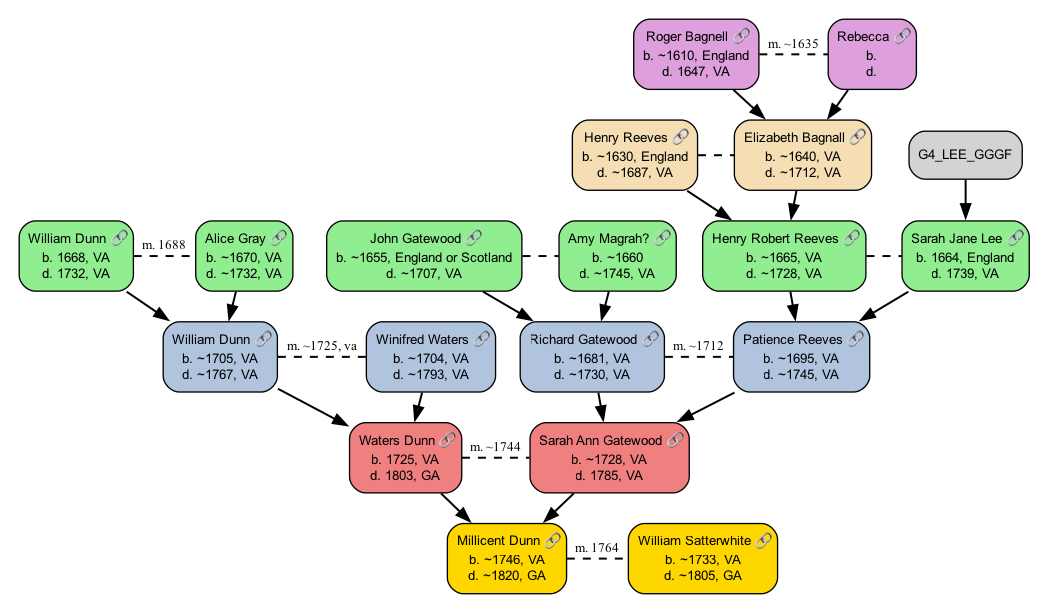
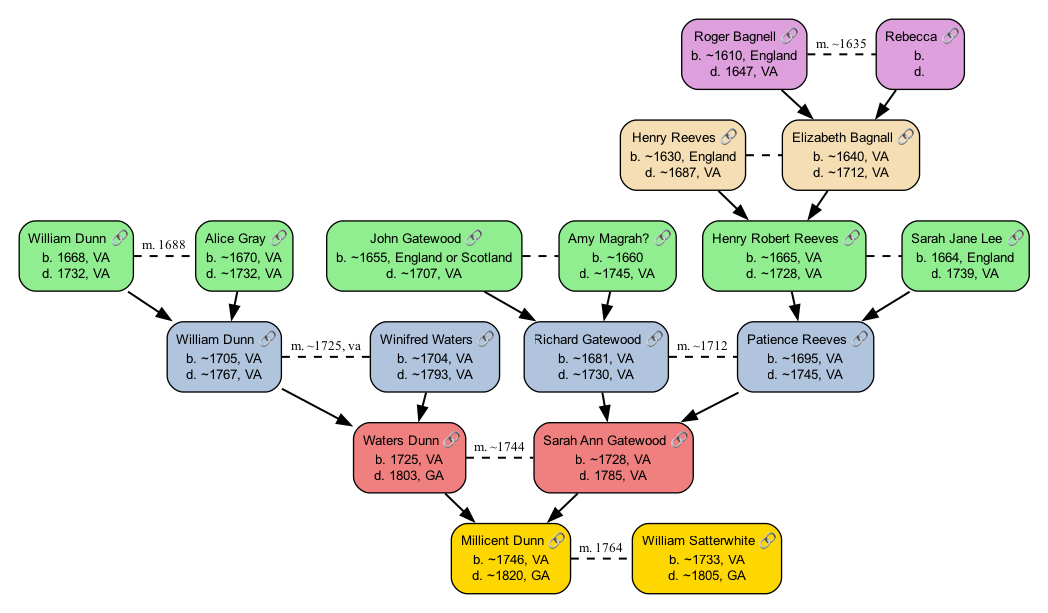
Update Dunn branch data and regenerate outputs
Remove G4_LEE_GGGF parent reference from Sarah Jane Lee record in Dunn branch.

🤖 Generated with [Claude Code](https://claude.com/claude-code)

diff --git a/output/Scott_line_Satterwhite_branch_Dunn_branch.html b/output/Scott_line_Satterwhite_branch_Dunn_branch.html
@@ -72,10 +72,10 @@
 <g id="node1" class="node">
 <title>G0_ME</title>
 <g id="a_node1"><a xlink:href="https://www.wikitree.com/wiki/Dunn-1110" xlink:title="Millicent Dunn 🔗\nb. ~1746, VA\nd. ~1820, GA" target="_blank">
-<path fill="gold" stroke="black" d="M398.52,-52.65C398.52,-52.65 333.12,-52.65 333.12,-52.65 327.12,-52.65 321.12,-46.65 321.12,-40.65 321.12,-40.65 321.12,-12 321.12,-12 321.12,-6 327.12,0 333.12,0 333.12,0 398.52,0 398.52,0 404.52,0 410.52,-6 410.52,-12 410.52,-12 410.52,-40.65 410.52,-40.65 410.52,-46.65 404.52,-52.65 398.52,-52.65"/>
-<text xml:space="preserve" text-anchor="middle" x="365.82" y="-35.95" font-family="Arial" font-size="10.00">Millicent Dunn 🔗</text>
-<text xml:space="preserve" text-anchor="middle" x="365.82" y="-21.7" font-family="Arial" font-size="10.00">b. ~1746, VA</text>
-<text xml:space="preserve" text-anchor="middle" x="365.82" y="-9.7" font-family="Arial" font-size="10.00">d. ~1820, GA</text>
+<path fill="gold" stroke="black" d="M401.52,-52.65C401.52,-52.65 336.12,-52.65 336.12,-52.65 330.12,-52.65 324.12,-46.65 324.12,-40.65 324.12,-40.65 324.12,-12 324.12,-12 324.12,-6 330.12,0 336.12,0 336.12,0 401.52,0 401.52,0 407.52,0 413.52,-6 413.52,-12 413.52,-12 413.52,-40.65 413.52,-40.65 413.52,-46.65 407.52,-52.65 401.52,-52.65"/>
+<text xml:space="preserve" text-anchor="middle" x="368.82" y="-35.95" font-family="Arial" font-size="10.00">Millicent Dunn 🔗</text>
+<text xml:space="preserve" text-anchor="middle" x="368.82" y="-21.7" font-family="Arial" font-size="10.00">b. ~1746, VA</text>
+<text xml:space="preserve" text-anchor="middle" x="368.82" y="-9.7" font-family="Arial" font-size="10.00">d. ~1820, GA</text>
 </a>
 </g>
 </g>
@@ -83,138 +83,138 @@
 <g id="node2" class="node">
 <title>G0_SPOUSE</title>
 <g id="a_node2"><a xlink:href="https://www.wikitree.com/wiki/Satterwhite-248" xlink:title="William Satterwhite 🔗\nb. ~1733, VA\nd. ~1805, GA" target="_blank">
-<path fill="gold" stroke="black" d="M556.78,-52.65C556.78,-52.65 468.88,-52.65 468.88,-52.65 462.88,-52.65 456.88,-46.65 456.88,-40.65 456.88,-40.65 456.88,-12 456.88,-12 456.88,-6 462.88,0 468.88,0 468.88,0 556.78,0 556.78,0 562.78,0 568.78,-6 568.78,-12 568.78,-12 568.78,-40.65 568.78,-40.65 568.78,-46.65 562.78,-52.65 556.78,-52.65"/>
-<text xml:space="preserve" text-anchor="middle" x="512.83" y="-35.95" font-family="Arial" font-size="10.00">William Satterwhite 🔗</text>
-<text xml:space="preserve" text-anchor="middle" x="512.83" y="-21.7" font-family="Arial" font-size="10.00">b. ~1733, VA</text>
-<text xml:space="preserve" text-anchor="middle" x="512.83" y="-9.7" font-family="Arial" font-size="10.00">d. ~1805, GA</text>
+<path fill="gold" stroke="black" d="M559.78,-52.65C559.78,-52.65 471.88,-52.65 471.88,-52.65 465.88,-52.65 459.88,-46.65 459.88,-40.65 459.88,-40.65 459.88,-12 459.88,-12 459.88,-6 465.88,0 471.88,0 471.88,0 559.78,0 559.78,0 565.78,0 571.78,-6 571.78,-12 571.78,-12 571.78,-40.65 571.78,-40.65 571.78,-46.65 565.78,-52.65 559.78,-52.65"/>
+<text xml:space="preserve" text-anchor="middle" x="515.83" y="-35.95" font-family="Arial" font-size="10.00">William Satterwhite 🔗</text>
+<text xml:space="preserve" text-anchor="middle" x="515.83" y="-21.7" font-family="Arial" font-size="10.00">b. ~1733, VA</text>
+<text xml:space="preserve" text-anchor="middle" x="515.83" y="-9.7" font-family="Arial" font-size="10.00">d. ~1805, GA</text>
 </a>
 </g>
 </g>
 <!-- G0_ME&#45;&gt;G0_SPOUSE -->
 <g id="edge1" class="edge">
 <title>G0_ME&#45;&gt;G0_SPOUSE</title>
-<path fill="none" stroke="black" stroke-width="1.5" stroke-dasharray="5,2" d="M410.73,-26.32C425.17,-26.32 441.35,-26.32 456.5,-26.32"/>
-<text xml:space="preserve" text-anchor="middle" x="433.7" y="-31.08" font-family="Times,serif" font-size="10.00">m. 1764</text>
+<path fill="none" stroke="black" stroke-width="1.5" stroke-dasharray="5,2" d="M413.73,-26.32C428.17,-26.32 444.35,-26.32 459.5,-26.32"/>
+<text xml:space="preserve" text-anchor="middle" x="436.7" y="-31.08" font-family="Times,serif" font-size="10.00">m. 1764</text>
 </g>
 <!-- G1_FATHER -->
 <g id="node3" class="node">
 <title>G1_FATHER</title>
 <g id="a_node3"><a xlink:href="https://www.wikitree.com/wiki/Dunn-4072" xlink:title="Waters Dunn 🔗\nb. 1725, VA\nd. 1803, GA" target="_blank">
-<path fill="lightcoral" stroke="black" d="M319.9,-128.3C319.9,-128.3 259.75,-128.3 259.75,-128.3 253.75,-128.3 247.75,-122.3 247.75,-116.3 247.75,-116.3 247.75,-87.65 247.75,-87.65 247.75,-81.65 253.75,-75.65 259.75,-75.65 259.75,-75.65 319.9,-75.65 319.9,-75.65 325.9,-75.65 331.9,-81.65 331.9,-87.65 331.9,-87.65 331.9,-116.3 331.9,-116.3 331.9,-122.3 325.9,-128.3 319.9,-128.3"/>
-<text xml:space="preserve" text-anchor="middle" x="289.82" y="-111.6" font-family="Arial" font-size="10.00">Waters Dunn 🔗</text>
-<text xml:space="preserve" text-anchor="middle" x="289.82" y="-97.35" font-family="Arial" font-size="10.00">b. 1725, VA</text>
-<text xml:space="preserve" text-anchor="middle" x="289.82" y="-85.35" font-family="Arial" font-size="10.00">d. 1803, GA</text>
+<path fill="lightcoral" stroke="black" d="M322.9,-128.3C322.9,-128.3 262.75,-128.3 262.75,-128.3 256.75,-128.3 250.75,-122.3 250.75,-116.3 250.75,-116.3 250.75,-87.65 250.75,-87.65 250.75,-81.65 256.75,-75.65 262.75,-75.65 262.75,-75.65 322.9,-75.65 322.9,-75.65 328.9,-75.65 334.9,-81.65 334.9,-87.65 334.9,-87.65 334.9,-116.3 334.9,-116.3 334.9,-122.3 328.9,-128.3 322.9,-128.3"/>
+<text xml:space="preserve" text-anchor="middle" x="292.82" y="-111.6" font-family="Arial" font-size="10.00">Waters Dunn 🔗</text>
+<text xml:space="preserve" text-anchor="middle" x="292.82" y="-97.35" font-family="Arial" font-size="10.00">b. 1725, VA</text>
+<text xml:space="preserve" text-anchor="middle" x="292.82" y="-85.35" font-family="Arial" font-size="10.00">d. 1803, GA</text>
 </a>
 </g>
 </g>
 <!-- G1_FATHER&#45;&gt;G0_ME -->
 <g id="edge10" class="edge">
 <title>G1_FATHER&#45;&gt;G0_ME</title>
-<path fill="none" stroke="black" stroke-width="1.5" d="M316.41,-75.22C321.06,-70.7 325.97,-65.95 330.81,-61.26"/>
-<polygon fill="black" stroke="black" stroke-width="1.5" points="333.01,-64 337.76,-54.53 328.14,-58.97 333.01,-64"/>
+<path fill="none" stroke="black" stroke-width="1.5" d="M319.41,-75.22C324.06,-70.7 328.97,-65.95 333.81,-61.26"/>
+<polygon fill="black" stroke="black" stroke-width="1.5" points="336.01,-64 340.76,-54.53 331.14,-58.97 336.01,-64"/>
 </g>
 <!-- G1_MOTHER -->
 <g id="node4" class="node">
 <title>G1_MOTHER</title>
 <g id="a_node4"><a xlink:href="https://www.wikitree.com/wiki/Gatewood-229" xlink:title="Sarah Ann Gatewood 🔗\nb. ~1728, VA\nd. 1785, VA" target="_blank">
-<path fill="lightcoral" stroke="black" d="M490.52,-128.3C490.52,-128.3 395.12,-128.3 395.12,-128.3 389.12,-128.3 383.12,-122.3 383.12,-116.3 383.12,-116.3 383.12,-87.65 383.12,-87.65 383.12,-81.65 389.12,-75.65 395.12,-75.65 395.12,-75.65 490.52,-75.65 490.52,-75.65 496.52,-75.65 502.52,-81.65 502.52,-87.65 502.52,-87.65 502.52,-116.3 502.52,-116.3 502.52,-122.3 496.52,-128.3 490.52,-128.3"/>
-<text xml:space="preserve" text-anchor="middle" x="442.82" y="-111.6" font-family="Arial" font-size="10.00">Sarah Ann Gatewood 🔗</text>
-<text xml:space="preserve" text-anchor="middle" x="442.82" y="-97.35" font-family="Arial" font-size="10.00">b. ~1728, VA</text>
-<text xml:space="preserve" text-anchor="middle" x="442.82" y="-85.35" font-family="Arial" font-size="10.00">d. 1785, VA</text>
+<path fill="lightcoral" stroke="black" d="M493.52,-128.3C493.52,-128.3 398.12,-128.3 398.12,-128.3 392.12,-128.3 386.12,-122.3 386.12,-116.3 386.12,-116.3 386.12,-87.65 386.12,-87.65 386.12,-81.65 392.12,-75.65 398.12,-75.65 398.12,-75.65 493.52,-75.65 493.52,-75.65 499.52,-75.65 505.52,-81.65 505.52,-87.65 505.52,-87.65 505.52,-116.3 505.52,-116.3 505.52,-122.3 499.52,-128.3 493.52,-128.3"/>
+<text xml:space="preserve" text-anchor="middle" x="445.82" y="-111.6" font-family="Arial" font-size="10.00">Sarah Ann Gatewood 🔗</text>
+<text xml:space="preserve" text-anchor="middle" x="445.82" y="-97.35" font-family="Arial" font-size="10.00">b. ~1728, VA</text>
+<text xml:space="preserve" text-anchor="middle" x="445.82" y="-85.35" font-family="Arial" font-size="10.00">d. 1785, VA</text>
 </a>
 </g>
 </g>
 <!-- G1_FATHER&#45;&gt;G1_MOTHER -->
 <g id="edge2" class="edge">
 <title>G1_FATHER&#45;&gt;G1_MOTHER</title>
-<path fill="none" stroke="black" stroke-width="1.5" stroke-dasharray="5,2" d="M332.04,-101.98C347.69,-101.98 365.77,-101.98 382.71,-101.98"/>
-<text xml:space="preserve" text-anchor="middle" x="357.51" y="-106.73" font-family="Times,serif" font-size="10.00">m. ~1744</text>
+<path fill="none" stroke="black" stroke-width="1.5" stroke-dasharray="5,2" d="M335.04,-101.98C350.69,-101.98 368.77,-101.98 385.71,-101.98"/>
+<text xml:space="preserve" text-anchor="middle" x="360.51" y="-106.73" font-family="Times,serif" font-size="10.00">m. ~1744</text>
 </g>
 <!-- G1_MOTHER&#45;&gt;G0_ME -->
 <g id="edge11" class="edge">
 <title>G1_MOTHER&#45;&gt;G0_ME</title>
-<path fill="none" stroke="black" stroke-width="1.5" d="M415.89,-75.22C411.18,-70.7 406.21,-65.95 401.3,-61.26"/>
-<polygon fill="black" stroke="black" stroke-width="1.5" points="403.9,-58.9 394.25,-54.51 399.06,-63.96 403.9,-58.9"/>
+<path fill="none" stroke="black" stroke-width="1.5" d="M418.89,-75.22C414.18,-70.7 409.21,-65.95 404.3,-61.26"/>
+<polygon fill="black" stroke="black" stroke-width="1.5" points="406.9,-58.9 397.25,-54.51 402.06,-63.96 406.9,-58.9"/>
 </g>
 <!-- G2_PATERNAL_GF -->
 <g id="node5" class="node">
 <title>G2_PATERNAL_GF</title>
 <g id="a_node5"><a xlink:href="https://www.wikitree.com/wiki/Dunn-870" xlink:title="William Dunn 🔗\nb. ~1705, VA\nd. ~1767, VA" target="_blank">
-<path fill="lightsteelblue" stroke="black" d="M181.65,-203.95C181.65,-203.95 120,-203.95 120,-203.95 114,-203.95 108,-197.95 108,-191.95 108,-191.95 108,-163.3 108,-163.3 108,-157.3 114,-151.3 120,-151.3 120,-151.3 181.65,-151.3 181.65,-151.3 187.65,-151.3 193.65,-157.3 193.65,-163.3 193.65,-163.3 193.65,-191.95 193.65,-191.95 193.65,-197.95 187.65,-203.95 181.65,-203.95"/>
-<text xml:space="preserve" text-anchor="middle" x="150.82" y="-187.25" font-family="Arial" font-size="10.00">William Dunn 🔗</text>
-<text xml:space="preserve" text-anchor="middle" x="150.82" y="-173" font-family="Arial" font-size="10.00">b. ~1705, VA</text>
-<text xml:space="preserve" text-anchor="middle" x="150.82" y="-161" font-family="Arial" font-size="10.00">d. ~1767, VA</text>
+<path fill="lightsteelblue" stroke="black" d="M184.65,-203.95C184.65,-203.95 123,-203.95 123,-203.95 117,-203.95 111,-197.95 111,-191.95 111,-191.95 111,-163.3 111,-163.3 111,-157.3 117,-151.3 123,-151.3 123,-151.3 184.65,-151.3 184.65,-151.3 190.65,-151.3 196.65,-157.3 196.65,-163.3 196.65,-163.3 196.65,-191.95 196.65,-191.95 196.65,-197.95 190.65,-203.95 184.65,-203.95"/>
+<text xml:space="preserve" text-anchor="middle" x="153.82" y="-187.25" font-family="Arial" font-size="10.00">William Dunn 🔗</text>
+<text xml:space="preserve" text-anchor="middle" x="153.82" y="-173" font-family="Arial" font-size="10.00">b. ~1705, VA</text>
+<text xml:space="preserve" text-anchor="middle" x="153.82" y="-161" font-family="Arial" font-size="10.00">d. ~1767, VA</text>
 </a>
 </g>
 </g>
 <!-- G2_PATERNAL_GF&#45;&gt;G1_FATHER -->
 <g id="edge12" class="edge">
 <title>G2_PATERNAL_GF&#45;&gt;G1_FATHER</title>
-<path fill="none" stroke="black" stroke-width="1.5" d="M194.04,-153.73C207.63,-146.52 222.8,-138.49 236.98,-130.98"/>
-<polygon fill="black" stroke="black" stroke-width="1.5" points="238.38,-134.19 245.58,-126.42 235.11,-128.01 238.38,-134.19"/>
+<path fill="none" stroke="black" stroke-width="1.5" d="M197.04,-153.73C210.63,-146.52 225.8,-138.49 239.98,-130.98"/>
+<polygon fill="black" stroke="black" stroke-width="1.5" points="241.38,-134.19 248.58,-126.42 238.11,-128.01 241.38,-134.19"/>
 </g>
 <!-- G2_PATERNAL_GM -->
 <g id="node6" class="node">
 <title>G2_PATERNAL_GM</title>
 <g id="a_node6"><a xlink:href="https://www.wikitree.com/wiki/Waters-545" xlink:title="Winifred Waters 🔗\nb. ~1704, VA\nd. ~1793, VA" target="_blank">
-<path fill="lightsteelblue" stroke="black" d="M345.27,-203.95C345.27,-203.95 272.38,-203.95 272.38,-203.95 266.38,-203.95 260.38,-197.95 260.38,-191.95 260.38,-191.95 260.38,-163.3 260.38,-163.3 260.38,-157.3 266.38,-151.3 272.38,-151.3 272.38,-151.3 345.27,-151.3 345.27,-151.3 351.27,-151.3 357.27,-157.3 357.27,-163.3 357.27,-163.3 357.27,-191.95 357.27,-191.95 357.27,-197.95 351.27,-203.95 345.27,-203.95"/>
-<text xml:space="preserve" text-anchor="middle" x="308.82" y="-187.25" font-family="Arial" font-size="10.00">Winifred Waters 🔗</text>
-<text xml:space="preserve" text-anchor="middle" x="308.82" y="-173" font-family="Arial" font-size="10.00">b. ~1704, VA</text>
-<text xml:space="preserve" text-anchor="middle" x="308.82" y="-161" font-family="Arial" font-size="10.00">d. ~1793, VA</text>
+<path fill="lightsteelblue" stroke="black" d="M348.27,-203.95C348.27,-203.95 275.38,-203.95 275.38,-203.95 269.38,-203.95 263.38,-197.95 263.38,-191.95 263.38,-191.95 263.38,-163.3 263.38,-163.3 263.38,-157.3 269.38,-151.3 275.38,-151.3 275.38,-151.3 348.27,-151.3 348.27,-151.3 354.27,-151.3 360.27,-157.3 360.27,-163.3 360.27,-163.3 360.27,-191.95 360.27,-191.95 360.27,-197.95 354.27,-203.95 348.27,-203.95"/>
+<text xml:space="preserve" text-anchor="middle" x="311.82" y="-187.25" font-family="Arial" font-size="10.00">Winifred Waters 🔗</text>
+<text xml:space="preserve" text-anchor="middle" x="311.82" y="-173" font-family="Arial" font-size="10.00">b. ~1704, VA</text>
+<text xml:space="preserve" text-anchor="middle" x="311.82" y="-161" font-family="Arial" font-size="10.00">d. ~1793, VA</text>
 </a>
 </g>
 </g>
 <!-- G2_PATERNAL_GF&#45;&gt;G2_PATERNAL_GM -->
 <g id="edge3" class="edge">
 <title>G2_PATERNAL_GF&#45;&gt;G2_PATERNAL_GM</title>
-<path fill="none" stroke="black" stroke-width="1.5" stroke-dasharray="5,2" d="M194,-177.62C214.47,-177.62 239,-177.62 260.13,-177.62"/>
-<text xml:space="preserve" text-anchor="middle" x="227.01" y="-182.38" font-family="Times,serif" font-size="10.00">m. ~1725, va</text>
+<path fill="none" stroke="black" stroke-width="1.5" stroke-dasharray="5,2" d="M197,-177.62C217.47,-177.62 242,-177.62 263.13,-177.62"/>
+<text xml:space="preserve" text-anchor="middle" x="230.01" y="-182.38" font-family="Times,serif" font-size="10.00">m. ~1725, va</text>
 </g>
 <!-- G2_PATERNAL_GM&#45;&gt;G1_FATHER -->
 <g id="edge13" class="edge">
 <title>G2_PATERNAL_GM&#45;&gt;G1_FATHER</title>
-<path fill="none" stroke="black" stroke-width="1.5" d="M302.18,-150.87C301.27,-147.33 300.32,-143.64 299.36,-139.95"/>
-<polygon fill="black" stroke="black" stroke-width="1.5" points="302.82,-139.35 296.94,-130.55 296.05,-141.1 302.82,-139.35"/>
+<path fill="none" stroke="black" stroke-width="1.5" d="M305.18,-150.87C304.27,-147.33 303.32,-143.64 302.36,-139.95"/>
+<polygon fill="black" stroke="black" stroke-width="1.5" points="305.82,-139.35 299.94,-130.55 299.05,-141.1 305.82,-139.35"/>
 </g>
 <!-- G2_MATERNAL_GF -->
 <g id="node7" class="node">
 <title>G2_MATERNAL_GF</title>
 <g id="a_node7"><a xlink:href="https://www.wikitree.com/wiki/Gatewood-75" xlink:title="Richard Gatewood 🔗\nb. ~1681, VA\nd. ~1730, VA" target="_blank">
-<path fill="lightsteelblue" stroke="black" d="M471.9,-203.95C471.9,-203.95 387.75,-203.95 387.75,-203.95 381.75,-203.95 375.75,-197.95 375.75,-191.95 375.75,-191.95 375.75,-163.3 375.75,-163.3 375.75,-157.3 381.75,-151.3 387.75,-151.3 387.75,-151.3 471.9,-151.3 471.9,-151.3 477.9,-151.3 483.9,-157.3 483.9,-163.3 483.9,-163.3 483.9,-191.95 483.9,-191.95 483.9,-197.95 477.9,-203.95 471.9,-203.95"/>
-<text xml:space="preserve" text-anchor="middle" x="429.82" y="-187.25" font-family="Arial" font-size="10.00">Richard Gatewood 🔗</text>
-<text xml:space="preserve" text-anchor="middle" x="429.82" y="-173" font-family="Arial" font-size="10.00">b. ~1681, VA</text>
-<text xml:space="preserve" text-anchor="middle" x="429.82" y="-161" font-family="Arial" font-size="10.00">d. ~1730, VA</text>
+<path fill="lightsteelblue" stroke="black" d="M474.9,-203.95C474.9,-203.95 390.75,-203.95 390.75,-203.95 384.75,-203.95 378.75,-197.95 378.75,-191.95 378.75,-191.95 378.75,-163.3 378.75,-163.3 378.75,-157.3 384.75,-151.3 390.75,-151.3 390.75,-151.3 474.9,-151.3 474.9,-151.3 480.9,-151.3 486.9,-157.3 486.9,-163.3 486.9,-163.3 486.9,-191.95 486.9,-191.95 486.9,-197.95 480.9,-203.95 474.9,-203.95"/>
+<text xml:space="preserve" text-anchor="middle" x="432.82" y="-187.25" font-family="Arial" font-size="10.00">Richard Gatewood 🔗</text>
+<text xml:space="preserve" text-anchor="middle" x="432.82" y="-173" font-family="Arial" font-size="10.00">b. ~1681, VA</text>
+<text xml:space="preserve" text-anchor="middle" x="432.82" y="-161" font-family="Arial" font-size="10.00">d. ~1730, VA</text>
 </a>
 </g>
 </g>
 <!-- G2_MATERNAL_GF&#45;&gt;G1_MOTHER -->
 <g id="edge14" class="edge">
 <title>G2_MATERNAL_GF&#45;&gt;G1_MOTHER</title>
-<path fill="none" stroke="black" stroke-width="1.5" d="M434.37,-150.87C434.98,-147.44 435.6,-143.88 436.23,-140.31"/>
-<polygon fill="black" stroke="black" stroke-width="1.5" points="439.66,-141.04 437.95,-130.58 432.77,-139.82 439.66,-141.04"/>
+<path fill="none" stroke="black" stroke-width="1.5" d="M437.37,-150.87C437.98,-147.44 438.6,-143.88 439.23,-140.31"/>
+<polygon fill="black" stroke="black" stroke-width="1.5" points="442.66,-141.04 440.95,-130.58 435.77,-139.82 442.66,-141.04"/>
 </g>
 <!-- G2_MATERNAL_GM -->
 <g id="node8" class="node">
 <title>G2_MATERNAL_GM</title>
 <g id="a_node8"><a xlink:href="https://www.wikitree.com/wiki/Reeves-784" xlink:title="Patience Reeves 🔗\nb. ~1695, VA\nd. ~1745, VA" target="_blank">
-<path fill="lightsteelblue" stroke="black" d="M625.9,-203.95C625.9,-203.95 547.75,-203.95 547.75,-203.95 541.75,-203.95 535.75,-197.95 535.75,-191.95 535.75,-191.95 535.75,-163.3 535.75,-163.3 535.75,-157.3 541.75,-151.3 547.75,-151.3 547.75,-151.3 625.9,-151.3 625.9,-151.3 631.9,-151.3 637.9,-157.3 637.9,-163.3 637.9,-163.3 637.9,-191.95 637.9,-191.95 637.9,-197.95 631.9,-203.95 625.9,-203.95"/>
-<text xml:space="preserve" text-anchor="middle" x="586.83" y="-187.25" font-family="Arial" font-size="10.00">Patience Reeves 🔗</text>
-<text xml:space="preserve" text-anchor="middle" x="586.83" y="-173" font-family="Arial" font-size="10.00">b. ~1695, VA</text>
-<text xml:space="preserve" text-anchor="middle" x="586.83" y="-161" font-family="Arial" font-size="10.00">d. ~1745, VA</text>
+<path fill="lightsteelblue" stroke="black" d="M628.9,-203.95C628.9,-203.95 550.75,-203.95 550.75,-203.95 544.75,-203.95 538.75,-197.95 538.75,-191.95 538.75,-191.95 538.75,-163.3 538.75,-163.3 538.75,-157.3 544.75,-151.3 550.75,-151.3 550.75,-151.3 628.9,-151.3 628.9,-151.3 634.9,-151.3 640.9,-157.3 640.9,-163.3 640.9,-163.3 640.9,-191.95 640.9,-191.95 640.9,-197.95 634.9,-203.95 628.9,-203.95"/>
+<text xml:space="preserve" text-anchor="middle" x="589.83" y="-187.25" font-family="Arial" font-size="10.00">Patience Reeves 🔗</text>
+<text xml:space="preserve" text-anchor="middle" x="589.83" y="-173" font-family="Arial" font-size="10.00">b. ~1695, VA</text>
+<text xml:space="preserve" text-anchor="middle" x="589.83" y="-161" font-family="Arial" font-size="10.00">d. ~1745, VA</text>
 </a>
 </g>
 </g>
 <!-- G2_MATERNAL_GF&#45;&gt;G2_MATERNAL_GM -->
 <g id="edge4" class="edge">
 <title>G2_MATERNAL_GF&#45;&gt;G2_MATERNAL_GM</title>
-<path fill="none" stroke="black" stroke-width="1.5" stroke-dasharray="5,2" d="M484.3,-177.62C500.86,-177.62 519,-177.62 535.36,-177.62"/>
-<text xml:space="preserve" text-anchor="middle" x="509.82" y="-182.38" font-family="Times,serif" font-size="10.00">m. ~1712</text>
+<path fill="none" stroke="black" stroke-width="1.5" stroke-dasharray="5,2" d="M487.3,-177.62C503.86,-177.62 522,-177.62 538.36,-177.62"/>
+<text xml:space="preserve" text-anchor="middle" x="512.83" y="-182.38" font-family="Times,serif" font-size="10.00">m. ~1712</text>
 </g>
 <!-- G2_MATERNAL_GM&#45;&gt;G1_MOTHER -->
 <g id="edge15" class="edge">
 <title>G2_MATERNAL_GM&#45;&gt;G1_MOTHER</title>
-<path fill="none" stroke="black" stroke-width="1.5" d="M536.46,-150.87C525.88,-145.45 514.6,-139.69 503.68,-134.1"/>
-<polygon fill="black" stroke="black" stroke-width="1.5" points="505.44,-131.07 494.94,-129.63 502.25,-137.3 505.44,-131.07"/>
+<path fill="none" stroke="black" stroke-width="1.5" d="M539.46,-150.87C528.88,-145.45 517.6,-139.69 506.68,-134.1"/>
+<polygon fill="black" stroke="black" stroke-width="1.5" points="508.44,-131.07 497.94,-129.63 505.25,-137.3 508.44,-131.07"/>
 </g>
 <!-- G3_DUNN_GGF -->
 <g id="node9" class="node">
@@ -230,8 +230,8 @@
 <!-- G3_DUNN_GGF&#45;&gt;G2_PATERNAL_GF -->
 <g id="edge16" class="edge">
 <title>G3_DUNN_GGF&#45;&gt;G2_PATERNAL_GF</title>
-<path fill="none" stroke="black" stroke-width="1.5" d="M80.6,-226.52C87.87,-221.55 95.58,-216.3 103.13,-211.15"/>
-<polygon fill="black" stroke="black" stroke-width="1.5" points="105.09,-214.05 111.38,-205.52 101.15,-208.27 105.09,-214.05"/>
+<path fill="none" stroke="black" stroke-width="1.5" d="M81.65,-226.52C89.21,-221.5 97.23,-216.18 105.07,-210.98"/>
+<polygon fill="black" stroke="black" stroke-width="1.5" points="106.92,-213.95 113.32,-205.5 103.05,-208.11 106.92,-213.95"/>
 </g>
 <!-- G3_GRAY_GGM -->
 <g id="node10" class="node">
@@ -253,8 +253,8 @@
 <!-- G3_GRAY_GGM&#45;&gt;G2_PATERNAL_GF -->
 <g id="edge17" class="edge">
 <title>G3_GRAY_GGM&#45;&gt;G2_PATERNAL_GF</title>
-<path fill="none" stroke="black" stroke-width="1.5" d="M162.53,-226.52C161.67,-222.98 160.76,-219.29 159.86,-215.6"/>
-<polygon fill="black" stroke="black" stroke-width="1.5" points="163.34,-215.09 157.56,-206.2 156.54,-216.75 163.34,-215.09"/>
+<path fill="none" stroke="black" stroke-width="1.5" d="M163.58,-226.52C162.88,-223.09 162.16,-219.53 161.43,-215.96"/>
+<polygon fill="black" stroke="black" stroke-width="1.5" points="164.87,-215.32 159.45,-206.22 158.01,-216.72 164.87,-215.32"/>
 </g>
 <!-- G3_GATEWOOD_GGF -->
 <g id="node11" class="node">
@@ -270,8 +270,8 @@
 <!-- G3_GATEWOOD_GGF&#45;&gt;G2_MATERNAL_GF -->
 <g id="edge18" class="edge">
 <title>G3_GATEWOOD_GGF&#45;&gt;G2_MATERNAL_GF</title>
-<path fill="none" stroke="black" stroke-width="1.5" d="M347.89,-226.52C356.87,-221.27 366.4,-215.7 375.68,-210.28"/>
-<polygon fill="black" stroke="black" stroke-width="1.5" points="377.17,-213.46 384.03,-205.39 373.63,-207.42 377.17,-213.46"/>
+<path fill="none" stroke="black" stroke-width="1.5" d="M348.94,-226.52C358.13,-221.27 367.89,-215.7 377.39,-210.28"/>
+<polygon fill="black" stroke="black" stroke-width="1.5" points="379.03,-213.37 385.98,-205.37 375.56,-207.29 379.03,-213.37"/>
 </g>
 <!-- G3_MARGRAH_GGM -->
 <g id="node12" class="node">
@@ -292,8 +292,8 @@
 <!-- G3_MARGRAH_GGM&#45;&gt;G2_MATERNAL_GF -->
 <g id="edge19" class="edge">
 <title>G3_MARGRAH_GGM&#45;&gt;G2_MATERNAL_GF</title>
-<path fill="none" stroke="black" stroke-width="1.5" d="M442.18,-226.52C441.27,-222.98 440.32,-219.29 439.36,-215.6"/>
-<polygon fill="black" stroke="black" stroke-width="1.5" points="442.82,-215 436.94,-206.2 436.05,-216.75 442.82,-215"/>
+<path fill="none" stroke="black" stroke-width="1.5" d="M443.23,-226.52C442.49,-223.09 441.71,-219.53 440.94,-215.96"/>
+<polygon fill="black" stroke="black" stroke-width="1.5" points="444.36,-215.24 438.82,-206.22 437.52,-216.73 444.36,-215.24"/>
 </g>
 <!-- G3_REEVES_GGF -->
 <g id="node13" class="node">
@@ -309,8 +309,8 @@
 <!-- G3_REEVES_GGF&#45;&gt;G2_MATERNAL_GM -->
 <g id="edge20" class="edge">
 <title>G3_REEVES_GGF&#45;&gt;G2_MATERNAL_GM</title>
-<path fill="none" stroke="black" stroke-width="1.5" d="M578.37,-226.52C578.98,-223.09 579.6,-219.53 580.23,-215.96"/>
-<polygon fill="black" stroke="black" stroke-width="1.5" points="583.66,-216.69 581.95,-206.23 576.77,-215.47 583.66,-216.69"/>
+<path fill="none" stroke="black" stroke-width="1.5" d="M579.42,-226.52C580.16,-223.09 580.94,-219.53 581.71,-215.96"/>
+<polygon fill="black" stroke="black" stroke-width="1.5" points="585.13,-216.73 583.83,-206.22 578.29,-215.24 585.13,-216.73"/>
 </g>
 <!-- G3_LEE_GGM -->
 <g id="node14" class="node">
@@ -331,99 +331,87 @@
 <!-- G3_LEE_GGM&#45;&gt;G2_MATERNAL_GM -->
 <g id="edge21" class="edge">
 <title>G3_LEE_GGM&#45;&gt;G2_MATERNAL_GM</title>
-<path fill="none" stroke="black" stroke-width="1.5" d="M666.81,-226.52C658.14,-221.33 648.94,-215.82 639.98,-210.45"/>
-<polygon fill="black" stroke="black" stroke-width="1.5" points="641.94,-207.55 631.56,-205.41 638.34,-213.55 641.94,-207.55"/>
+<path fill="none" stroke="black" stroke-width="1.5" d="M667.85,-226.52C659.49,-221.38 650.62,-215.94 641.96,-210.63"/>
+<polygon fill="black" stroke="black" stroke-width="1.5" points="643.86,-207.68 633.5,-205.43 640.2,-213.65 643.86,-207.68"/>
 </g>
 <!-- G4_REEVES_GGGF -->
 <g id="node15" class="node">
 <title>G4_REEVES_GGGF</title>
 <g id="a_node15"><a xlink:href="https://www.wikitree.com/wiki/Reeves-4192" xlink:title="Henry Reeves 🔗\nb. ~1630, England\nd. ~1687, VA" target="_blank">
-<path fill="wheat" stroke="black" d="M496.77,-355.25C496.77,-355.25 426.88,-355.25 426.88,-355.25 420.88,-355.25 414.88,-349.25 414.88,-343.25 414.88,-343.25 414.88,-314.6 414.88,-314.6 414.88,-308.6 420.88,-302.6 426.88,-302.6 426.88,-302.6 496.77,-302.6 496.77,-302.6 502.77,-302.6 508.77,-308.6 508.77,-314.6 508.77,-314.6 508.77,-343.25 508.77,-343.25 508.77,-349.25 502.77,-355.25 496.77,-355.25"/>
-<text xml:space="preserve" text-anchor="middle" x="461.82" y="-338.55" font-family="Arial" font-size="10.00">Henry Reeves 🔗</text>
-<text xml:space="preserve" text-anchor="middle" x="461.82" y="-324.3" font-family="Arial" font-size="10.00">b. ~1630, England</text>
-<text xml:space="preserve" text-anchor="middle" x="461.82" y="-312.3" font-family="Arial" font-size="10.00">d. ~1687, VA</text>
+<path fill="wheat" stroke="black" d="M532.77,-355.25C532.77,-355.25 462.88,-355.25 462.88,-355.25 456.88,-355.25 450.88,-349.25 450.88,-343.25 450.88,-343.25 450.88,-314.6 450.88,-314.6 450.88,-308.6 456.88,-302.6 462.88,-302.6 462.88,-302.6 532.77,-302.6 532.77,-302.6 538.77,-302.6 544.77,-308.6 544.77,-314.6 544.77,-314.6 544.77,-343.25 544.77,-343.25 544.77,-349.25 538.77,-355.25 532.77,-355.25"/>
+<text xml:space="preserve" text-anchor="middle" x="497.82" y="-338.55" font-family="Arial" font-size="10.00">Henry Reeves 🔗</text>
+<text xml:space="preserve" text-anchor="middle" x="497.82" y="-324.3" font-family="Arial" font-size="10.00">b. ~1630, England</text>
+<text xml:space="preserve" text-anchor="middle" x="497.82" y="-312.3" font-family="Arial" font-size="10.00">d. ~1687, VA</text>
 </a>
 </g>
 </g>
 <!-- G4_REEVES_GGGF&#45;&gt;G3_REEVES_GGF -->
 <g id="edge22" class="edge">
 <title>G4_REEVES_GGGF&#45;&gt;G3_REEVES_GGF</title>
-<path fill="none" stroke="black" stroke-width="1.5" d="M501,-302.17C508.63,-297.15 516.72,-291.83 524.63,-286.63"/>
-<polygon fill="black" stroke="black" stroke-width="1.5" points="526.53,-289.56 532.97,-281.14 522.69,-283.71 526.53,-289.56"/>
+<path fill="none" stroke="black" stroke-width="1.5" d="M524.41,-302.17C529.06,-297.65 533.97,-292.9 538.81,-288.21"/>
+<polygon fill="black" stroke="black" stroke-width="1.5" points="541.01,-290.95 545.76,-281.48 536.14,-285.92 541.01,-290.95"/>
 </g>
 <!-- G4_BAGNALL_GGGM -->
 <g id="node16" class="node">
 <title>G4_BAGNALL_GGGM</title>
 <g id="a_node16"><a xlink:href="https://www.wikitree.com/wiki/Bagnall-468" xlink:title="Elizabeth Bagnall 🔗\nb. ~1640, VA\nd. ~1712, VA" target="_blank">
-<path fill="wheat" stroke="black" d="M627.28,-355.25C627.28,-355.25 548.38,-355.25 548.38,-355.25 542.38,-355.25 536.38,-349.25 536.38,-343.25 536.38,-343.25 536.38,-314.6 536.38,-314.6 536.38,-308.6 542.38,-302.6 548.38,-302.6 548.38,-302.6 627.28,-302.6 627.28,-302.6 633.28,-302.6 639.28,-308.6 639.28,-314.6 639.28,-314.6 639.28,-343.25 639.28,-343.25 639.28,-349.25 633.28,-355.25 627.28,-355.25"/>
-<text xml:space="preserve" text-anchor="middle" x="587.83" y="-338.55" font-family="Arial" font-size="10.00">Elizabeth Bagnall 🔗</text>
-<text xml:space="preserve" text-anchor="middle" x="587.83" y="-324.3" font-family="Arial" font-size="10.00">b. ~1640, VA</text>
-<text xml:space="preserve" text-anchor="middle" x="587.83" y="-312.3" font-family="Arial" font-size="10.00">d. ~1712, VA</text>
+<path fill="wheat" stroke="black" d="M663.28,-355.25C663.28,-355.25 584.38,-355.25 584.38,-355.25 578.38,-355.25 572.38,-349.25 572.38,-343.25 572.38,-343.25 572.38,-314.6 572.38,-314.6 572.38,-308.6 578.38,-302.6 584.38,-302.6 584.38,-302.6 663.28,-302.6 663.28,-302.6 669.28,-302.6 675.28,-308.6 675.28,-314.6 675.28,-314.6 675.28,-343.25 675.28,-343.25 675.28,-349.25 669.28,-355.25 663.28,-355.25"/>
+<text xml:space="preserve" text-anchor="middle" x="623.83" y="-338.55" font-family="Arial" font-size="10.00">Elizabeth Bagnall 🔗</text>
+<text xml:space="preserve" text-anchor="middle" x="623.83" y="-324.3" font-family="Arial" font-size="10.00">b. ~1640, VA</text>
+<text xml:space="preserve" text-anchor="middle" x="623.83" y="-312.3" font-family="Arial" font-size="10.00">d. ~1712, VA</text>
 </a>
 </g>
 </g>
 <!-- G4_REEVES_GGGF&#45;&gt;G4_BAGNALL_GGGM -->
 <g id="edge8" class="edge">
 <title>G4_REEVES_GGGF&#45;&gt;G4_BAGNALL_GGGM</title>
-<path fill="none" stroke="black" stroke-width="1.5" stroke-dasharray="5,2" d="M509.07,-328.92C518.1,-328.92 527.12,-328.92 536.15,-328.92"/>
+<path fill="none" stroke="black" stroke-width="1.5" stroke-dasharray="5,2" d="M545.08,-328.92C554.1,-328.92 563.12,-328.92 572.15,-328.92"/>
 </g>
 <!-- G4_BAGNALL_GGGM&#45;&gt;G3_REEVES_GGF -->
 <g id="edge23" class="edge">
 <title>G4_BAGNALL_GGGM&#45;&gt;G3_REEVES_GGF</title>
-<path fill="none" stroke="black" stroke-width="1.5" d="M582.93,-302.17C582.28,-298.74 581.6,-295.18 580.92,-291.61"/>
-<polygon fill="black" stroke="black" stroke-width="1.5" points="584.38,-291.05 579.07,-281.88 577.5,-292.36 584.38,-291.05"/>
+<path fill="none" stroke="black" stroke-width="1.5" d="M606.34,-302.17C603.55,-298.06 600.62,-293.75 597.72,-289.47"/>
+<polygon fill="black" stroke="black" stroke-width="1.5" points="600.84,-287.83 592.32,-281.53 595.05,-291.76 600.84,-287.83"/>
 </g>
 <!-- G5_BAGNALL_GGGGF -->
 <g id="node17" class="node">
 <title>G5_BAGNALL_GGGGF</title>
 <g id="a_node17"><a xlink:href="https://www.wikitree.com/wiki/Bagnall-131" xlink:title="Roger Bagnell 🔗\nb. ~1610, England\nd. 1647, VA" target="_blank">
-<path fill="plum" stroke="black" d="M542.77,-430.9C542.77,-430.9 472.88,-430.9 472.88,-430.9 466.88,-430.9 460.88,-424.9 460.88,-418.9 460.88,-418.9 460.88,-390.25 460.88,-390.25 460.88,-384.25 466.88,-378.25 472.88,-378.25 472.88,-378.25 542.77,-378.25 542.77,-378.25 548.77,-378.25 554.77,-384.25 554.77,-390.25 554.77,-390.25 554.77,-418.9 554.77,-418.9 554.77,-424.9 548.77,-430.9 542.77,-430.9"/>
-<text xml:space="preserve" text-anchor="middle" x="507.82" y="-414.2" font-family="Arial" font-size="10.00">Roger Bagnell 🔗</text>
-<text xml:space="preserve" text-anchor="middle" x="507.82" y="-399.95" font-family="Arial" font-size="10.00">b. ~1610, England</text>
-<text xml:space="preserve" text-anchor="middle" x="507.82" y="-387.95" font-family="Arial" font-size="10.00">d. 1647, VA</text>
+<path fill="plum" stroke="black" d="M578.78,-430.9C578.78,-430.9 508.88,-430.9 508.88,-430.9 502.88,-430.9 496.88,-424.9 496.88,-418.9 496.88,-418.9 496.88,-390.25 496.88,-390.25 496.88,-384.25 502.88,-378.25 508.88,-378.25 508.88,-378.25 578.78,-378.25 578.78,-378.25 584.78,-378.25 590.78,-384.25 590.78,-390.25 590.78,-390.25 590.78,-418.9 590.78,-418.9 590.78,-424.9 584.78,-430.9 578.78,-430.9"/>
+<text xml:space="preserve" text-anchor="middle" x="543.83" y="-414.2" font-family="Arial" font-size="10.00">Roger Bagnell 🔗</text>
+<text xml:space="preserve" text-anchor="middle" x="543.83" y="-399.95" font-family="Arial" font-size="10.00">b. ~1610, England</text>
+<text xml:space="preserve" text-anchor="middle" x="543.83" y="-387.95" font-family="Arial" font-size="10.00">d. 1647, VA</text>
 </a>
 </g>
 </g>
 <!-- G5_BAGNALL_GGGGF&#45;&gt;G4_BAGNALL_GGGM -->
-<g id="edge25" class="edge">
+<g id="edge24" class="edge">
 <title>G5_BAGNALL_GGGGF&#45;&gt;G4_BAGNALL_GGGM</title>
-<path fill="none" stroke="black" stroke-width="1.5" d="M535.81,-377.82C540.83,-373.19 546.13,-368.31 551.35,-363.51"/>
-<polygon fill="black" stroke="black" stroke-width="1.5" points="553.34,-366.43 558.33,-357.08 548.6,-361.28 553.34,-366.43"/>
+<path fill="none" stroke="black" stroke-width="1.5" d="M571.81,-377.82C576.83,-373.19 582.13,-368.31 587.35,-363.51"/>
+<polygon fill="black" stroke="black" stroke-width="1.5" points="589.34,-366.43 594.33,-357.08 584.6,-361.28 589.34,-366.43"/>
 </g>
 <!-- G5_UNKNOWN_GGGGM -->
 <g id="node18" class="node">
 <title>G5_UNKNOWN_GGGGM</title>
 <g id="a_node18"><a xlink:href="https://www.wikitree.com/wiki/Bagnall-131" xlink:title="Rebecca 🔗\nb.\nd." target="_blank">
-<path fill="plum" stroke="black" d="M660.9,-430.9C660.9,-430.9 618.75,-430.9 618.75,-430.9 612.75,-430.9 606.75,-424.9 606.75,-418.9 606.75,-418.9 606.75,-390.25 606.75,-390.25 606.75,-384.25 612.75,-378.25 618.75,-378.25 618.75,-378.25 660.9,-378.25 660.9,-378.25 666.9,-378.25 672.9,-384.25 672.9,-390.25 672.9,-390.25 672.9,-418.9 672.9,-418.9 672.9,-424.9 666.9,-430.9 660.9,-430.9"/>
-<text xml:space="preserve" text-anchor="middle" x="639.83" y="-414.2" font-family="Arial" font-size="10.00">Rebecca 🔗</text>
-<text xml:space="preserve" text-anchor="middle" x="639.83" y="-399.95" font-family="Arial" font-size="10.00">b.</text>
-<text xml:space="preserve" text-anchor="middle" x="639.83" y="-387.95" font-family="Arial" font-size="10.00">d.</text>
+<path fill="plum" stroke="black" d="M696.9,-430.9C696.9,-430.9 654.75,-430.9 654.75,-430.9 648.75,-430.9 642.75,-424.9 642.75,-418.9 642.75,-418.9 642.75,-390.25 642.75,-390.25 642.75,-384.25 648.75,-378.25 654.75,-378.25 654.75,-378.25 696.9,-378.25 696.9,-378.25 702.9,-378.25 708.9,-384.25 708.9,-390.25 708.9,-390.25 708.9,-418.9 708.9,-418.9 708.9,-424.9 702.9,-430.9 696.9,-430.9"/>
+<text xml:space="preserve" text-anchor="middle" x="675.83" y="-414.2" font-family="Arial" font-size="10.00">Rebecca 🔗</text>
+<text xml:space="preserve" text-anchor="middle" x="675.83" y="-399.95" font-family="Arial" font-size="10.00">b.</text>
+<text xml:space="preserve" text-anchor="middle" x="675.83" y="-387.95" font-family="Arial" font-size="10.00">d.</text>
 </a>
 </g>
 </g>
 <!-- G5_BAGNALL_GGGGF&#45;&gt;G5_UNKNOWN_GGGGM -->
 <g id="edge9" class="edge">
 <title>G5_BAGNALL_GGGGF&#45;&gt;G5_UNKNOWN_GGGGM</title>
-<path fill="none" stroke="black" stroke-width="1.5" stroke-dasharray="5,2" d="M555.11,-404.57C572.12,-404.57 590.95,-404.57 606.52,-404.57"/>
-<text xml:space="preserve" text-anchor="middle" x="580.76" y="-409.32" font-family="Times,serif" font-size="10.00">m. ~1635</text>
+<path fill="none" stroke="black" stroke-width="1.5" stroke-dasharray="5,2" d="M591.11,-404.57C608.12,-404.57 626.95,-404.57 642.52,-404.57"/>
+<text xml:space="preserve" text-anchor="middle" x="616.76" y="-409.32" font-family="Times,serif" font-size="10.00">m. ~1635</text>
 </g>
 <!-- G5_UNKNOWN_GGGGM&#45;&gt;G4_BAGNALL_GGGM -->
-<g id="edge26" class="edge">
+<g id="edge25" class="edge">
 <title>G5_UNKNOWN_GGGGM&#45;&gt;G4_BAGNALL_GGGM</title>
-<path fill="none" stroke="black" stroke-width="1.5" d="M621.64,-377.82C618.74,-373.71 615.7,-369.4 612.67,-365.12"/>
-<polygon fill="black" stroke="black" stroke-width="1.5" points="615.68,-363.3 607.05,-357.15 609.96,-367.34 615.68,-363.3"/>
-</g>
-<!-- G4_LEE_GGGF -->
-<g id="node19" class="node">
-<title>G4_LEE_GGGF</title>
-<path fill="lightgrey" stroke="black" d="M740.28,-346.92C740.28,-346.92 679.38,-346.92 679.38,-346.92 673.38,-346.92 667.38,-340.92 667.38,-334.92 667.38,-334.92 667.38,-322.92 667.38,-322.92 667.38,-316.92 673.38,-310.92 679.38,-310.92 679.38,-310.92 740.28,-310.92 740.28,-310.92 746.28,-310.92 752.28,-316.92 752.28,-322.92 752.28,-322.92 752.28,-334.92 752.28,-334.92 752.28,-340.92 746.28,-346.92 740.28,-346.92"/>
-<text xml:space="preserve" text-anchor="middle" x="709.83" y="-325.42" font-family="Arial" font-size="10.00">G4_LEE_GGGF</text>
-</g>
-<!-- G4_LEE_GGGF&#45;&gt;G3_LEE_GGM -->
-<g id="edge24" class="edge">
-<title>G4_LEE_GGGF&#45;&gt;G3_LEE_GGM</title>
-<path fill="none" stroke="black" stroke-width="1.5" d="M709.83,-310.47C709.83,-304.92 709.83,-298.56 709.83,-292.15"/>
-<polygon fill="black" stroke="black" stroke-width="1.5" points="713.33,-292.24 709.83,-282.24 706.33,-292.24 713.33,-292.24"/>
+<path fill="none" stroke="black" stroke-width="1.5" d="M657.64,-377.82C654.74,-373.71 651.7,-369.4 648.67,-365.12"/>
+<polygon fill="black" stroke="black" stroke-width="1.5" points="651.68,-363.3 643.05,-357.15 645.96,-367.34 651.68,-363.3"/>
 </g>
 </g>
 </svg>
